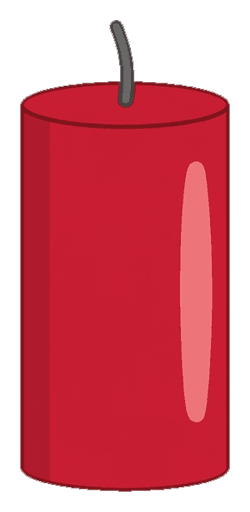
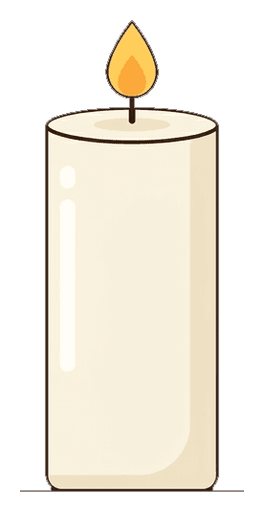
Back-up (niet online): kaars herkenbaar (met vlammetje); keuring Rekenmix en Tijd
Claude-Session: https://claude.ai/code/session_019HGXxT1wyk7NJR8Z8Kb8k1

diff --git a/src/lib/voorwerpen/lijst-rekenmix.ts b/src/lib/voorwerpen/lijst-rekenmix.ts
@@ -24,7 +24,7 @@ export const REKENMIX: Voorwerp[] = [
     naam: "kaars",
     titel: "Kaars",
     groep: "huis",
-    onderwerp: "one red pillar candle with straight sides, unlit, with a short dark wick, side view",
+    onderwerp: "one cream-white pillar candle with a small lit yellow flame on top, side view, clearly a candle",
     schets: `<rect class="r" x="70" y="40" width="60" height="140" rx="8" fill="#e8454f"/><path class="r" d="M100 40 v-16" fill="none"/>`,
   },
 ];

diff --git a/CONTROLE-SQULA.md b/CONTROLE-SQULA.md
@@ -863,3 +863,228 @@ Opgelost uit ronde 1:
 **Uitslag ronde 2:**
 - GOEDGEKEURD: alle 18 kloklessen, splitsen1-1, 1-2, 2-1, 2-2.
 - AFGEKEURD: splits-delen-1, piraat-1, piraat-2, piraat-3.
+
+
+---
+
+## Rekenmix — ronde 1 — 2026-11-01 (controleur Opus)
+
+Zo gekeurd:
+- Broncode `src/components/les/lessen/squla-rekenmix.tsx` (alle 240 vragen en 18 voorbeelden zelf nagerekend) en het vlak `src/components/les/vlakken/squla-rekenmix-vlak.tsx`, op alle regels van BOUWREGELS.md, ook 1.21, 2.1/2.2, 4.1/4.3 en hoofdstuk 14.
+- Analyses `SQULA-ANALYSE/rekenmix-*-volledig.md`: opbouw, volgorde van de vraagsoorten en getallenreeksen volgen Squla per level.
+- Speeltest `GOED=1`, één les tegelijk, alle 16 lessen **tot het eind**, niets vastgelopen. Schermfoto's in `scratchpad/controle/opus-rm/`. Het Nee-pad zelf nagelopen bij mix1-1 (`scratchpad/controle/opus-nee/mix1-1`).
+- Alle gebruikte plaatjes bekeken op #0b1028 (vel in `scratchpad/controle/opus-vel/`) en in de les op de schermfoto's.
+
+Wat overal klopt:
+- Elke som, elk goed antwoord en elk testAntwoord. Elke vraag heeft precies één goed antwoord; afleiders zijn echte kinderfouten (1 meer, 1 minder). Getekende aantallen = het getal in de vraag.
+- Geen krokodil, kikker, ander dier of mens; geen gezichten. De vervangingen houden hun rol (1.21): pakjes/ballen/knikkers tellen, bal en doos voor in/op/voor, boterham met kaas voor meer/minder, bal in een doos en knikkers in een zak voor splitsen.
+- Getalkleuren (2.2/14.20) passen bij de voorwerpen: appel/bal/auto/bloem/aardbei/raketje rood, potlood/boom/satelliet groen, knikker/knoop blauw, ster/blokje geel, kraal/planeet/ufo paars, koekje bruin. (De planeet is nu ook in de code paars.)
+- Eigen welkomzin per les, alle 16 verschillend en in STEMZINNEN.md (4.3). Het voorbeeld op het beginscherm is de echte eerste vraag (4.1). Ja gaat meteen naar een schone eerste vraag.
+- Geen kaders of kaarten met rand om de voorwerpen (1.4); plekjes zijn lichtvlakken op de vloer. Plaatjes in glansstijl B, scherp, geen witte randjes.
+- 15 vragen per les, invoerveld met cijfers bij de typvragen (geen schermtoetsenbord).
+
+### Algemene punten (gelden voor meer lessen)
+
+**R1 (4.1/14.13/14.21) — de uitleg na Nee gaat over iets anders dan het voorbeeld.** In `les()` (r. 1300–1312) toont het beginscherm de eerste vraag (`opgaven[0]`), maar na Nee speelt `legUit` de aparte `voorbeeld`-vraag uit de lesdefinitie. Waar die een ander voorwerp of een andere vraag heeft, ziet het kind na Nee opeens iets anders dan op het beginscherm. Zelf nagelopen bij mix1-1: beginscherm = 7 appels door elkaar, na Nee telt Bliepo 6 blauwe knikkers in twee rijen. Per les staat hieronder of dat zo is.
+- Voorstel (één plek, voor alle 16): laat het beginscherm het eerste `voorbeeld` tonen in plaats van `opgaven[0]` (`toonOpgave(l, st, aanpak(l, st, \`${d.id}-vb1\`, d.voorbeeld[0]).o, null)`, daarna `st.huidig = ""`) en pas de welkomzin daarop aan. Dan gaat de uitleg vanzelf over het voorbeeld en verklapt hij vraag 1 niet. Of andersom: maak elk `voorbeeld` van hetzelfde voorwerp en dezelfde soort vraag als vraag 1, met andere getallen die nergens in de les staan.
+
+**R2 (5.3) — rood bij een fout in Verbinden.** `squla-rekenmix-vlak.tsx` r. 684: `g.lineStyle(7, goed[l] ? GOED : 0xff7b8b, 1)`. Een foute lijn wordt 0,9 s roze-rood. Regel 5.3: bij een fout geen rood. Voorstel: foute lijn grijs en dof (bijv. `0x8a94b8`, alpha 0,6) en dan laten verdwijnen. Raakt alleen mix2-4.
+
+**R3 (7.7/1.9) — de vormen zijn vlak, zonder glans.** In mix1-2 (keuzes cirkel/driehoek/vierkant/rechthoek, lichtblauw) en mix2-3 (rode/gele/blauwe/groene vormen) zijn de vormen platte kleurvlakken met een donkere rand: geen verloop, geen lichtvlekje, geen schaduw. Dat wijkt af van glansstijl B en van dezelfde vormen in squla-vormen-kleuren-2 (VORMSTIJL in `squla-vormen-tekenen.ts`). Schermfoto's mix1-2/006, mix2-3/005. Voorstel: de vormen in `texVorm` tekenen met VORMSTIJL (zelfde vorm = zelfde uiterlijk).
+
+**R4 (plaatje `kaars`) — lijkt op een stuk vuurwerk.** Een rode cilinder met een gebogen grijs lontje, zonder vlammetje of was (schermfoto mix3-1/008). Op de donkere achtergrond lijkt het een rotje of dynamiet, en Squla's vuurpijl en lucifers waren juist bewust weggehaald (regel 1.8/1.20). Gebruikt in mix3-1 (dik/dun) en mix4-2 (van dik naar dun). Beter: een kaars die je meteen herkent (licht van kleur, met een klein vlammetje of een druppel was), in glansstijl B; of in deze vragen een ander ding dat dik en dun kan zijn (potlood, boom).
+
+Tips (geen afkeuring):
+- De plekjes en lichtvlakken onder keuzes hebben een gestippelde rand. Dat staat nergens als verboden voor Squla, maar 1.11 noemt "gestippelde potjes" als iets wat een kind niet snapt. Sara laten kijken.
+- De getallen die Bliepo bij het samen tellen in de tekening zet (labels) zijn altijd geel, ook bij blauwe knikkers (Nee-pad mix1-1). Tip 2.2: de kleur van het voorwerp.
+- 2.1 (twijfel voor Sara): bij "samen" (mix4-1), splitsen (mix3-4) en blokjes (mix2-3) zegt Bliepo een somzin ("3 en 1 is samen 4"), maar beide groepjes hebben dezelfde kleur. Het zijn geen sommen met een plusteken; ik keur er niet op af.
+- 3.5 (twijfel voor Sara): in mix2-2 leest Bliepo de drie woordkeuzes vooraf voor ("Op de doos, achter de doos of in de doos?"). Regel 3.5 zegt "keuzes niet vooraf voorlezen", maar het zijn woorden en een kind van groep 3 leest nog niet. Ik keur er niet op af.
+
+### squla-rekenmix-mix1-1 — Rekenmix 1 — ronde 1 — AFGEKEURD (2026-11-01)
+- Rekenen: in orde (15 telvragen, 5 t/m 12, zoals Squla level 1).
+- Plaatje: in orde (appels, ballen, potloden, auto's, bloemen, knikkers, sterren).
+- Taal: in orde.
+- Beginscherm: FOUT (R1). Welkom en voorbeeld gaan over appels door elkaar (r. 1336); na Nee telt Bliepo knikkers in twee rijen (r. 1337). Voorstel: `voorbeeld: [{ t: "tel", v: APPEL, gr: los([{ naam: "appel", n: 6 }], 5), keuzes: [6, 5, 7], soort: "tel" }]` (6 appels komt nergens als vraag voor).
+- Spelen: tot het eind, 16 stappen.
+
+### squla-rekenmix-mix1-2 — Rekenmix 1 (moeilijker) — ronde 1 — AFGEKEURD (2026-11-01)
+- Rekenen/inhoud: FOUT (11.1, geen dubbele vragen). Vraag 6 en vraag 14 zijn dezelfde: `{ naam: "pizzadoos", zin: "de pizzadoos", vorm: "vierkant" }` (r. 1379 en r. 1387), alleen de keuzes staan anders. Voorstel: maak vraag 14 een ander vierkant ding, bijvoorbeeld `doos` ("de doos", vierkant).
+- Plaatje: FOUT (R3, vlakke vormen). Tip: `pizzadoos` staat schuin in perspectief en lijkt eerder een ruit dan een vierkant (schermfoto 014); van boven gezien is duidelijker.
+- Beginscherm: FOUT (R1). Welkom en voorbeeld: de tent; na Nee: de zon (r. 1372). Voorstel: R1 (beginscherm met de zon en "Kijk naar de zon. Welke vorm lijkt erop?"), want een uitleg met de tent verklapt vraag 1.
+- Taal: in orde.
+- Spelen: tot het eind.
+
+### squla-rekenmix-mix1-3 — Rekenmix 1 (nog moeilijker) — ronde 1 — GOEDGEKEURD (2026-11-01)
+- Rekenen: in orde (elke keer precies één goed plaatje, ook als een keuze niet in de rij staat).
+- Plaatje: in orde (voertuigen, ruimtedingen, speelgoed).
+- Taal: in orde. Tip: "In het midden staat hij tussen de andere twee in." (r. 596): "hij" past niet bij "het skateboard"; beter "Wat in het midden staat, heeft links en rechts iets naast zich."
+- Beginscherm: in orde; voorbeeld en uitleg gaan allebei over voertuigen in een rij.
+- Spelen: tot het eind.
+
+### squla-rekenmix-mix1-4 — Rekenmix 1 (heel moeilijk) — ronde 1 — AFGEKEURD (2026-11-01)
+- Rekenen: in orde (richting en volgorde zoals Squla: 3× meer→minder, 2× minder→meer).
+- Beginscherm: FOUT (R1). Welkom en voorbeeld: koekjes (r. 1437); na Nee: appels (r. 1438). Voorstel: `voorbeeld: [{ t: "ordenAantal", v: KOEKJE, aantallen: [2, 6, 4], richting: "af" }]`.
+- Taal: FOUT (14.2). De namen van de groepjes (r. 675, `` `${n} ${q.v.meer}` ``, voorgelezen door een voorleesprogramma) worden "1 knikkers", "1 ballen", "1 koekjes", "1 appels" (vragen 2, 7, 9, 14; schermenlijst 008, 015, 017, 022). Voorstel: enkelvoud bij 1 (`n === 1 ? q.v.naam-woord : q.v.meer`; voor "speelgoedauto" de spreeknaam "auto").
+- Tip: "De meeste komt vooraan." → "Het groepje met de meeste komt vooraan."
+- Spelen: tot het eind.
+
+### squla-rekenmix-mix2-1 — Rekenmix 2 — ronde 1 — GOEDGEKEURD (2026-11-01)
+- Rekenen: in orde (meer, meeste, minder, minste, evenveel; steeds één goed plaatje).
+- Plaatje: in orde (boterham met weinig/veel/heel veel kaas, spiesjes). Tip: `spies-leeg` is een dun stokje dat bijna wegvalt.
+- Taal: in orde ("Op welk spiesje zit het meeste fruit?", "Op welke boterham zit de meeste kaas?" kloppen).
+- Beginscherm: in orde (boterham, uitleg ook met boterham). Tip (14.21): de uitleg (`minder`, keuzes `[1, 0, 2]`) is precies vraag 3; neem `[2, 1, 0]`.
+- Spelen: tot het eind.
+
+### squla-rekenmix-mix2-2 — Rekenmix 2 (moeilijker) — ronde 1 — GOEDGEKEURD (2026-11-01)
+- Rekenen: in orde. Plaatje: in orde; bal in, op, voor, naast en achter de doos is op de schermfoto's goed te zien (002, 006, 012).
+- Taal: in orde. Tip: zie 3.5 bij de algemene punten.
+- Beginscherm: in orde (bal en doos, uitleg ook).
+- Spelen: tot het eind.
+
+### squla-rekenmix-mix2-3 — Rekenmix 2 (nog moeilijker) — ronde 1 — AFGEKEURD (2026-11-01)
+- Rekenen: in orde (blokjes 5 + rest, 6 t/m 10; kleur + vorm steeds één goed).
+- Plaatje: FOUT (R3, vlakke vormen, schermfoto 005).
+- Beginscherm: FOUT (14.21). De uitleg gebruikt de gele cirkel tussen geel/rood (r. 1542); vraag 10 (r. 1555) is bijna dezelfde vraag met hetzelfde antwoord. Voorstel: een kleur die nergens gevraagd wordt, bijvoorbeeld `{ kleur: "paars", vorm: "driehoek", keuzes: [["paars","driehoek"],["paars","vierkant"],["oranje","driehoek"]] }` en welkom/voorbeeld via R1.
+- Taal: in orde ("een geel vierkant", "een gele driehoek" kloppen).
+- Spelen: tot het eind.
+
+### squla-rekenmix-mix2-4 — Rekenmix 2 (heel moeilijk) — ronde 1 — AFGEKEURD (2026-11-01)
+- Rekenen: in orde (alle 15 verbindingen nagerekend, 4 t/m 10).
+- Fout-weergave: FOUT (R2, foute lijn rood).
+- Plaatje: in orde (schermfoto 003). Taal: in orde.
+- Beginscherm: in orde (ballen met getallen, uitleg ook).
+- Spelen: tot het eind (91 stappen).
+
+### squla-rekenmix-mix3-1 — Rekenmix 3 — ronde 1 — AFGEKEURD (2026-11-01)
+- Beginscherm: FOUT (14.4/14.13). r. 1618: "Zet ze op volgorde, van klein naar groot." Maar vraag 1 (het voorbeeld) is "klein, kleiner, kleinst": de grootste bal hoort vooraan, de kleinste achteraan. Wie het welkom volgt, legt hem verkeerd. Daarna legt Bliepo na Nee bomen uit met "groot, groter, grootst" (r. 1619): ander ding en andere volgorde. Voorstel: welkom "Drie ballen zijn niet even groot. Zet ze op volgorde: klein, kleiner, kleinst." en een uitleg met ballen (R1).
+- Taal: FOUT. r. 724: `` `Ja! ${woorden.map(Hoofd).join(", ")}.` `` geeft "Ja! Klein, Kleiner, Kleinst." (hoofdletters midden in de zin). Voorstel: `Hoofd(woorden.join(", "))`.
+- Plaatje: FOUT (R4, `kaars`). Tip: de blokken in de torens (laag, lager, laagst) staan met een kier boven elkaar (schermfoto 017); laten aansluiten (14.17).
+- Rekenen: in orde (volgorde volgt de woorden, zoals Squla).
+- Spelen: tot het eind.
+
+### squla-rekenmix-mix3-2 — Rekenmix 3 (moeilijker) — ronde 1 — AFGEKEURD (2026-11-01)
+- Rekenen: in orde (5 keuzes, steeds de hele rij).
+- Beginscherm: FOUT (14.21). Na Nee telt Bliepo de hele rij RIJ_A af (eerste … laatste, r. 1654, `alles`); vraag 2 t/m 5 gaan over precies die rij, en de uitleg (plek 1) is gelijk aan vraag 3. Voorstel: voor de uitleg een rij in een andere volgorde die niet in de les staat, bijvoorbeeld `["bus", "bootje", "fiets", "treintje", "speelgoedauto"]`.
+- Plaatje: in orde. Tip: de voertuigen kijken verschillende kanten op (auto naar links, fiets naar rechts); "vooraan" en "achteraan" zijn dan minder duidelijk.
+- Taal: in orde.
+- Spelen: tot het eind.
+
+### squla-rekenmix-mix3-3 — Rekenmix 3 (nog moeilijker) — ronde 1 — AFGEKEURD (2026-11-01)
+- Rekenen: in orde (voor/na 5 t/m 10, typvragen met invoerveld, schermfoto 012).
+- Beginscherm: FOUT (14.13/14.21). Welkom en voorbeeld: "Welk getal komt net voor 7?"; na Nee: "na 5" (r. 1687). Dat is een andere richting, en het is vraag 4 (r. 1692, na 5 = 6). Voorstel: uitleg "net voor 5" (antwoord 4, komt in de les niet voor) met `keuzes: [4, 6, 3]`.
+- Taal: tip (14.3): "Welk getal komt net voor 7?" naast "Welk getal komt na 9?"; overal hetzelfde ("net na").
+- Spelen: tot het eind.
+
+### squla-rekenmix-mix3-4 — Rekenmix 3 (heel moeilijk) — ronde 1 — GOEDGEKEURD (2026-11-01)
+- Rekenen: in orde (alle 15 splitsingen en het voorbeeld 5 = 4 + 1).
+- Plaatje: in orde (splitsbeen, doos, zak, ballen en knikkers).
+- Taal: in orde ("Er zijn 6 ballen. Hoeveel zitten er in de doos?").
+- Beginscherm: in orde (ballen en doos, uitleg ook; verklapt geen vraag).
+- Spelen: tot het eind.
+
+### squla-rekenmix-mix4-1 — Rekenmix 4 — ronde 1 — AFGEKEURD (2026-11-01)
+- Rekenen: in orde (tellen in een druk plaatje telt alleen de eerste soort; samen 2 t/m 9).
+- Beginscherm: FOUT (R1). Welkom en voorbeeld: "Tel alleen de raketjes" in een druk ruimteplaatje (r. 1758); na Nee: 2 + 3 ballen samen (r. 1759), een andere soort vraag met een ander ding. Voorstel: uitleg met een druk plaatje, bijvoorbeeld `los([{ naam: "raketje", n: 7 }, { naam: "ster", n: 3 }, { naam: "planeet", n: 2 }], 75, 820, 580, 120)`, `soort: "druk"`.
+- Plaatje en taal: in orde.
+- Spelen: tot het eind.
+
+### squla-rekenmix-mix4-2 — Rekenmix 4 (moeilijker) — ronde 1 — AFGEKEURD (2026-11-01)
+- Rekenen: in orde (verder tellen 10–16, groepjes, raketjes van hoog naar laag, dik naar dun, eerst/dan).
+- Plaatje: FOUT (R4, `kaars` bij "van dik naar dun", r. 1809). Tip: in `ijsje-twee-bollen` zit het nieuwe bolletje onder het eerste, niet erop ("Dan nog een bolletje erbij").
+- Taal: in orde. Beginscherm: in orde (verder tellen, uitleg vanaf 5).
+- Spelen: tot het eind.
+
+### squla-rekenmix-mix4-3 — Rekenmix 4 (nog moeilijker) — ronde 1 — GOEDGEKEURD (2026-11-01)
+- Rekenen: in orde (precies één groep met het gevraagde aantal, 4 t/m 10).
+- Plaatje, taal en beginscherm: in orde (sterren, uitleg met 4 sterren, komt in de les niet voor).
+- Spelen: tot het eind.
+
+### squla-rekenmix-mix4-4 — Rekenmix 4 (heel moeilijk) — ronde 1 — AFGEKEURD (2026-11-01)
+- Rekenen: in orde (meer dan, minder dan, evenveel, laatste/middelste ballon; steeds één goed).
+- Beginscherm: FOUT (R1 en 14.21). Welkom en voorbeeld: raketjes, "meer dan 5" (r. 1864); na Nee: ballen `[3], [4], [2]` meer dan 3 (r. 1866). Dat is een ander ding en precies vraag 6 (r. 1875, ballen `[3], [2], [4]`). Voorstel: uitleg met raketjes en een getal dat niet gevraagd wordt, bijvoorbeeld `kr("raketje",[4]), kr("raketje",[3]), kr("raketje",[5])`, meer dan 4.
+- Plaatje en taal: in orde.
+- Spelen: tot het eind.
+
+**Uitslag Rekenmix ronde 1:**
+- GOEDGEKEURD: mix1-3, mix2-1, mix2-2, mix3-4, mix4-3.
+- AFGEKEURD: mix1-1, mix1-2, mix1-4, mix2-3, mix2-4, mix3-1, mix3-2, mix3-3, mix4-1, mix4-2, mix4-4.
+
+---
+
+## Tijd — ronde 1 — 2026-11-01 (controleur Opus)
+
+Zo gekeurd:
+- Broncode `src/components/les/lessen/squla-tijd.tsx` (alle vragen, verhaaltjes, uitleg en hulp), de vlakken `squla-tijd-trein.tsx` en `squla-tijd-plaatjes.tsx` en `squla-tijd-tekeningen.ts`, op alle regels van BOUWREGELS.md.
+- Analyses `SQULA-ANALYSE/tijd-*-volledig.md`: opbouw en volgorde volgen Squla (ook de drie vragen die aan het eind terugkomen).
+- Speeltest `GOED=1`, één les tegelijk: alle 7 lessen **tot het eind**, niets vastgelopen. Schermfoto's in `scratchpad/controle/opus-tijd/`.
+- Extra gezocht op resten van mensen: geen Noa, Sam, Tim, bakker, mama/papa, juf, "hij/zij" of "wie" meer in de zinnen. Alleen nog "we" (Bliepo en het kind) en "je": dat klopt.
+
+Wat overal klopt:
+- Alle antwoorden en testAntwoorden. De kalender is juni met 1 juni op dinsdag: 9 juni = woensdag, 8 en 13 in dezelfde rij, de boogjes 9→13 = 4, 10→13 = 3, 11→13 = 2, "morgen = rechts ernaast" klopt overal (nagerekend in `plekInMaand`).
+- De verhaaltjes in dagen-3 kloppen allemaal: zwembad (di → do), kapperszaak (wo → vr), kamp (do + 3 nachtjes = zo), huis geschilderd (gisteren vanaf zo = za), taart in de oven (za → vr feest → do), slaapfeest (ma + 2 nachtjes = wo). Plaatjes passen erbij (zwembad, schaar, tent, huis, taart, bed).
+- De bakkerij in tijden-2 werkt zonder bakker: "In de bakkerij wordt deeg gemaakt", "de deur van het slot doen", "de hele winkel vegen". De feestkalender vervangt de verjaardagskalender logisch (het woord "feest" bij een datum, een feesthoedje op 13 juni).
+- Elke les 12 vragen + 3 die terugkomen = 15. Eigen welkomzin per les, in STEMZINNEN.md. Het voorbeeld op het beginscherm is de eerste vraag.
+- Geen mensen of gezichten. Het handje is een lichtje.
+
+### Algemeen punt T1 (5.3) — rood bij een fout, in alle 7 lessen
+- `squla-tijd-plaatjes.tsx` r. 139 `RING = { …, rood: "#e8453c" }` en r. 313/330: een fout gekozen kaartje of een fout gelegd kaartje krijgt een rode rand.
+- `squla-tijd-trein.tsx` r. 222–234 en r. 435: een foute dagkaart krijgt een rode rand (`#ff7a6e`).
+- Regel 5.3: bij een fout geen rood; het verkeerde kaartje wordt grijs of verdwijnt. Voorstel: bij fout geen rand, alleen `uit` (dof, 0,35) en het schudden dat er al is; bij ordenen een fout vak gewoon leeg laten teruggaan.
+- Daarom zijn alle 7 lessen afgekeurd, ook als er verder niets mis is.
+
+Tips (alle lessen):
+- 3.5 (twijfel voor Sara): bij woordkeuzes leest Bliepo de keuzes vooraf voor ("Donderdag, zaterdag of zondag?"). Dat is bewust (kop van het bestand: groep 3 leest nog niet), maar regel 3.5 zegt het anders.
+- "Tikken mag ook." staat bij de eerste sleepvraag; dat is uitleg over hoe je iets doet, geen knop. Geen afkeuring.
+
+### squla-tijd-dagen-1 — Dagen van de week — ronde 1 — AFGEKEURD (alleen T1) (2026-11-01)
+- Rekenen, plaatje (weektrein), taal, beginscherm: in orde.
+- Tip (14.21): de uitleg na Nee zegt al dat maandag de eerste, zondag de laatste en zaterdag/zondag het weekend is (vraag 1, 2 en 4). Dat is lesstof, daarom geen afkeuring.
+- Spelen: tot het eind.
+
+### squla-tijd-dagen-2 — Dagen van de week (moeilijker) — ronde 1 — AFGEKEURD (alleen T1) (2026-11-01)
+- Rekenen, taal, beginscherm (na dinsdag, uitleg met woensdag/donderdag): in orde.
+- Tip (14.21): "Na zondag begint de week weer met maandag." (r. 438) is het antwoord van vraag 4.
+- Spelen: tot het eind.
+
+### squla-tijd-dagen-3 — Dagen van de week (nog moeilijker) — ronde 1 — AFGEKEURD (alleen T1) (2026-11-01)
+- Rekenen en verhaaltjes: in orde (zie boven).
+- Taal: in orde. Tip: "Het bed staat klaar." (r. 611) staat er twee dagen te vroeg; beter "Over 2 nachtjes is er een slaapfeest." zonder die zin.
+- Spelen: tot het eind.
+
+### squla-tijd-kalender-1 — De kalender — ronde 1 — AFGEKEURD (2026-11-01)
+- Zin en beeld: FOUT (14.4). Bij de weekkalender (vraag 4) is gym een **hoepel** (`activiteit gym = hoepel`, `squla-tijd-tekeningen.ts` r. 74), maar Bliepo zegt "Zoek de dagen met de bal." (r. 903) en de tip "Op welke kalender zie je een bal?" (r. 905). Schermfoto 012: alleen ringen. Voorstel: "Zoek de dagen met de hoepel." / "Op welke kalender zie je een hoepel?".
+- Taal: FOUT (14.1, rest van een mens). r. 1036: "Is er dan koorts, is er een feest, of is het de tandarts?" (was "Eefje is ziek / jarig / naar de tandarts"). "Is er dan koorts" is geen natuurlijk Nederlands. Voorstel: "Is het dan een feest? Of moet je naar de tandarts? Of ben je ziek?" en de keuzes "ziek / feest / tandarts".
+- T1 (rood bij fout).
+- Rekenen: in orde (8 in het rode vak, 13 bij het hoedje, 30 dagen, 12 maanden). De ballon als afleider bij "welk getal" komt van Squla.
+- Beginscherm: in orde (klok, kalender, plaatjes; uitleg over dag-, week- en maandkalender).
+- Spelen: tot het eind.
+
+### squla-tijd-kalender-2 — De kalender (moeilijker) — ronde 1 — AFGEKEURD (2026-11-01)
+- Beginscherm: FOUT (14.13). Welkom en voorbeeld: "Op de kalender van juni staat een rood vak. Welk getal staat daar?" Na Nee (r. 1384–1388) gaat de uitleg over boogjes van 1 naar 3 juni; over het rode vak en het getal erin zegt Bliepo niets. Voorstel: eerst "Kijk, het rode vak. Daar staat een getal: {5:rood}. Dat is 5 juni." (met `rood=5`, komt niet in de les voor), daarna eventueel de boogjes.
+- Taal: FOUT (14.1). r. 1267: "Kun je op de kalender tellen hoeveel nachtjes het nog duurt?" Tot wát? Bij Squla stond er "tot ik jarig ben". Voorstel: "…hoeveel nachtjes het nog duurt tot het feest?".
+- Taal: FOUT (14.1/14.19). r. 1318: "In de droom is het rode vak 12 juni." Er droomt niemand meer: de vraag zegt "Stel je voor dat het al 12 juni is." Voorstel: "Stel je voor: het rode vak is 12 juni." Tip: de gedachtewolk zonder iemand die denkt (`droom`, schermfoto 027) mag blijven als "stel je voor"-wolk.
+- Plaatje: FOUT (1.15). Bij "Volg de rode pijl naar boven" (vraag 3, `maand|pijl=9`) loopt de pijl dwars over het getal 2 (schermfoto 010). Voorstel: de pijl laten stoppen onder rij 1 en de kolomkop "wo" laten oplichten, of de pijl naast de getallen langs laten lopen (`squla-tijd-tekeningen.ts` r. 162).
+- T1 (rood bij fout).
+- Rekenen: in orde.
+- Spelen: tot het eind.
+
+### squla-tijd-tijden-1 — Tijden — ronde 1 — AFGEKEURD (2026-11-01)
+- Beginscherm: FOUT (14.13). Welkom en voorbeeld: kampvuur op vrijdag, "Welke dag komt na vrijdag?". Na Nee (r. 1633–1645) legt Bliepo ochtend/middag/avond/nacht en gisteren/vandaag/morgen uit; over de dagen van de week en "na vrijdag" niets. Voorstel: begin de uitleg met "Gisteren was het vrijdag. Na vrijdag komt zaterdag. Dus vandaag is het zaterdag." (of kies een andere dag), daarna de rest.
+- Taal: FOUT. r. 1477: "Het groene boek kwam straks." ("straks" kan niet in de verleden tijd). Voorstel: "Het groene boek kwam pas later."
+- Plaatje: FOUT (1.4). De dagdelen (`dagdeel` in `squla-tijd-tekeningen.ts` r. 349–372) zijn plaatjes in een kader met een dikke donkere rand en ronde hoeken (schermfoto 013). Voorstel: de lucht zonder kader, of alleen zon/maan/sterren los in glansstijl.
+- T1 (rood bij fout).
+- Rekenen: in orde (zaterdag, rode boek, lang, kort, straks, nacht, middag, laat, gisteren-vandaag-morgen, zondag, vrijdag).
+- Tip: de tip bij "Welk boek lazen we als eerste?" is "Het was het rode boek." (r. 1433): dat is het antwoord.
+- Spelen: tot het eind.
+
+### squla-tijd-tijden-2 — Tijden (moeilijker) — ronde 1 — AFGEKEURD (alleen T1) (2026-11-01)
+- Rekenen: in orde (steeds het logische antwoord).
+- Plaatje: in orde (bed, schoen, bakkerij, deegkom, strooier, taart, kers, oven, ei, bezem, sleutel, glas, jas).
+- Taal: in orde. Tips: "Wat duurt het langst? De rondleiding, of een broodje krijgen?" (r. 1790): bij twee dingen "langer". "Er is een bezoek aan de bakkerij!" en "de hele dag werken" zeggen niet wie; het klopt nog, maar "Je gaat op bezoek in de bakkerij" is duidelijker.
+- Beginscherm: in orde (boterham en nacht slapen; uitleg met koekje en nacht slapen).
+- Spelen: tot het eind.
+
+**Uitslag Tijd ronde 1:**
+- GOEDGEKEURD: geen.
+- AFGEKEURD alleen op T1 (rood bij fout): dagen-1, dagen-2, dagen-3, tijden-2.
+- AFGEKEURD met meer punten: kalender-1, kalender-2, tijden-1.

diff --git a/MAGNIFIC-PROMPTS.md b/MAGNIFIC-PROMPTS.md
@@ -294,7 +294,7 @@ a thin plain wooden stick for fruit, standing upright, nothing on it, simple fla
 
 ### 35. Lege beker — `beker-leeg.png` — ✅ gegenereerd
 
-Lessen: Minsommen: hoeveel over? (moeilijker) (`squla-min-machine-2`)
+Lessen: Minsommen: hoeveel over? (moeilijker) (`squla-min-machine-2`), Eerlijk verdelen (`squla-splits-delen-1`)
 
 ```
 an empty clear drinking glass, simple flat illustration for a children's math app: solid flat colors, one soft highlight, thin dark outline, minimal details, no gradients, no shadow, no face, no eyes, no text. Single object centered on a plain pure white background.
@@ -636,7 +636,7 @@ a small purple flying saucer with a clear empty glass dome and colored lights, s
 
 ### 77. Bezorgbus — `bezorgbus.png` — ✅ gegenereerd
 
-Lessen: Hoe laat is het? (`squla-klok-hoelaat-1`), Hoe laat is het? (moeilijker) (`squla-klok-hoelaat-2`), Hoe laat is het? (nog moeilijker) (`squla-klok-hoelaat-3`), Bussommen (`squla-min-bus1-1`), Bussommen (moeilijker) (`squla-min-bus1-2`), Bussommen (nog moeilijker) (`squla-min-bus1-3`), Bussommen met een rondje (`squla-min-bus2-1`), Bussommen met een rondje (moeilijker) (`squla-min-bus2-2`), Bussommen met een rondje (nog moeilijker) (`squla-min-bus2-3`), Bussommen (`squla-plus-bus1-1`), Bussommen (moeilijker) (`squla-plus-bus1-2`), Bussommen (nog moeilijker) (`squla-plus-bus1-3`), Bussommen met een getal (`squla-plus-bus2-1`), Bussommen met een getal (moeilijker) (`squla-plus-bus2-2`), Bussommen met een getal (nog moeilijker) (`squla-plus-bus2-3`)
+Lessen: De klok en de tijd (moeilijker) (`squla-klok-digitaal-2`), Hoe laat is het? (`squla-klok-hoelaat-1`), Hoe laat is het? (moeilijker) (`squla-klok-hoelaat-2`), Hoe laat is het? (nog moeilijker) (`squla-klok-hoelaat-3`), Bussommen (`squla-min-bus1-1`), Bussommen (moeilijker) (`squla-min-bus1-2`), Bussommen (nog moeilijker) (`squla-min-bus1-3`), Bussommen met een rondje (`squla-min-bus2-1`), Bussommen met een rondje (moeilijker) (`squla-min-bus2-2`), Bussommen met een rondje (nog moeilijker) (`squla-min-bus2-3`), Bussommen (`squla-plus-bus1-1`), Bussommen (moeilijker) (`squla-plus-bus1-2`), Bussommen (nog moeilijker) (`squla-plus-bus1-3`), Bussommen met een getal (`squla-plus-bus2-1`), Bussommen met een getal (moeilijker) (`squla-plus-bus2-2`), Bussommen met een getal (nog moeilijker) (`squla-plus-bus2-3`)
 
 ```
 a modern yellow delivery van seen exactly from the side, with one very large rectangular light-blue side window covering the whole cargo area on the left two thirds, driver cabin on the right, empty, nobody inside, rounded friendly shapes, simple flat illustration for a children's math app: solid flat colors, one soft highlight, thin dark outline, minimal details, no gradients, no shadow, no face, no eyes, no text. Single object centered on a plain pure white background.
@@ -644,7 +644,7 @@ a modern yellow delivery van seen exactly from the side, with one very large rec
 
 ### 78. Bus — `bus.png` — ✅ gegenereerd
 
-Lessen: Getallen op hun plek (`squla-getallenlijn-rangschikken-1`), Getallen op hun plek (moeilijker) (`squla-getallenlijn-rangschikken-2`), Getallen op hun plek (nog moeilijker) (`squla-getallenlijn-rangschikken-3`), Het raketje op de getallenlijn (`squla-getallenlijn-kat-1`), Het raketje op de getallenlijn (moeilijker) (`squla-getallenlijn-kat-2`), Dingen op de getallen (`squla-getallenlijn-dieren-1`), Dingen op de getallen (moeilijker) (`squla-getallenlijn-dieren-2`), Dingen op de getallen (nog moeilijker) (`squla-getallenlijn-dieren-3`), Terugtellen tot de start (`squla-getallenlijn-terugtellen-1`), De klok en de tijd (moeilijker) (`squla-klok-digitaal-2`), Halve uren: later en eerder (`squla-klok-klokkijken3-4`), Rekenmix 1 (nog moeilijker) (`squla-rekenmix-mix1-3`), Rekenmix 3 (moeilijker) (`squla-rekenmix-mix3-2`), Tellen in rijtjes (`squla-tellen-resultatief1-1`), Tellen in rijtjes (nog moeilijker) (`squla-tellen-resultatief1-3`), Hoeveel zie je? (moeilijker) (`squla-tellen-resultatief2-2`), Hoeveel zie je? (nog moeilijker) (`squla-tellen-resultatief2-3`), Grote groepen tellen (nog moeilijker) (`squla-tellen-resultatief3-3`), Links, rechts, boven, onder (`squla-vormen-orienteren-1`)
+Lessen: Getallen op hun plek (`squla-getallenlijn-rangschikken-1`), Getallen op hun plek (moeilijker) (`squla-getallenlijn-rangschikken-2`), Getallen op hun plek (nog moeilijker) (`squla-getallenlijn-rangschikken-3`), Het raketje op de getallenlijn (`squla-getallenlijn-kat-1`), Het raketje op de getallenlijn (moeilijker) (`squla-getallenlijn-kat-2`), Dingen op de getallen (`squla-getallenlijn-dieren-1`), Dingen op de getallen (moeilijker) (`squla-getallenlijn-dieren-2`), Dingen op de getallen (nog moeilijker) (`squla-getallenlijn-dieren-3`), Terugtellen tot de start (`squla-getallenlijn-terugtellen-1`), Halve uren: later en eerder (`squla-klok-klokkijken3-4`), Rekenmix 1 (nog moeilijker) (`squla-rekenmix-mix1-3`), Rekenmix 3 (moeilijker) (`squla-rekenmix-mix3-2`), Tellen in rijtjes (`squla-tellen-resultatief1-1`), Tellen in rijtjes (nog moeilijker) (`squla-tellen-resultatief1-3`), Hoeveel zie je? (moeilijker) (`squla-tellen-resultatief2-2`), Hoeveel zie je? (nog moeilijker) (`squla-tellen-resultatief2-3`), Grote groepen tellen (nog moeilijker) (`squla-tellen-resultatief3-3`), Links, rechts, boven, onder (`squla-vormen-orienteren-1`)
 
 ```
 a modern yellow city bus seen exactly from the side, with a row of large light-blue windows and two black wheels, rounded friendly shapes, nobody inside, simple flat illustration for a children's math app: solid flat colors, one soft highlight, thin dark outline, minimal details, no gradients, no shadow, no face, no eyes, no text. Single object centered on a plain pure white background.
@@ -745,7 +745,7 @@ a teal coat with yellow buttons, front view, simple flat illustration for a chil
 Lessen: Rekenmix 3 (`squla-rekenmix-mix3-1`), Rekenmix 4 (moeilijker) (`squla-rekenmix-mix4-2`)
 
 ```
-one red pillar candle with straight sides, unlit, with a short dark wick, side view, simple flat illustration for a children's math app: solid flat colors, one soft highlight, thin dark outline, minimal details, no gradients, no shadow, no face, no eyes, no text. Single object centered on a plain pure white background.
+one cream-white pillar candle with a small lit yellow flame on top, side view, clearly a candle, simple flat illustration for a children's math app: solid flat colors, one soft highlight, thin dark outline, minimal details, no gradients, no shadow, no face, no eyes, no text. Single object centered on a plain pure white background.
 ```
 
 ### 91. Kistje — `kistje.png` — ✅ gegenereerd
@@ -782,7 +782,7 @@ a teal mixing bowl filled with smooth yellow cake batter and a whisk in it, simp
 
 ### 95. Lampje — `lampje.png` — ✅ gegenereerd
 
-Lessen: Halve uren: later en eerder (`squla-klok-klokkijken3-4`)
+Lessen: De klok en de tijd (`squla-klok-digitaal-1`), Halve uren: later en eerder (`squla-klok-klokkijken3-4`)
 
 ```
 a small desk lamp with a yellow lampshade, switched on, simple flat illustration for a children's math app: solid flat colors, one soft highlight, thin dark outline, minimal details, no gradients, no shadow, no face, no eyes, no text. Single object centered on a plain pure white background.

diff --git a/PLAATJES-STAND.md b/PLAATJES-STAND.md
@@ -91,7 +91,7 @@ Gemaakt door `npm run voorwerpen`. 172 vervangen, 1 nog open.
 - ✅ 87. Gieter — `gieter.png` (versie 3)
 - ✅ 88. Groen boek — `boek-groen.png` (versie 3)
 - ✅ 89. Jas — `jas.png` (versie 3)
-- ✅ 90. Kaars — `kaars.png` (versie 4)
+- ✅ 90. Kaars — `kaars.png` (versie 5)
 - ✅ 91. Kistje — `kistje.png` (versie 3)
 - ✅ 92. Kledingkast — `kledingkast.png` (versie 3)
 - ✅ 93. Knoop — `knoop.png` (versie 3)
